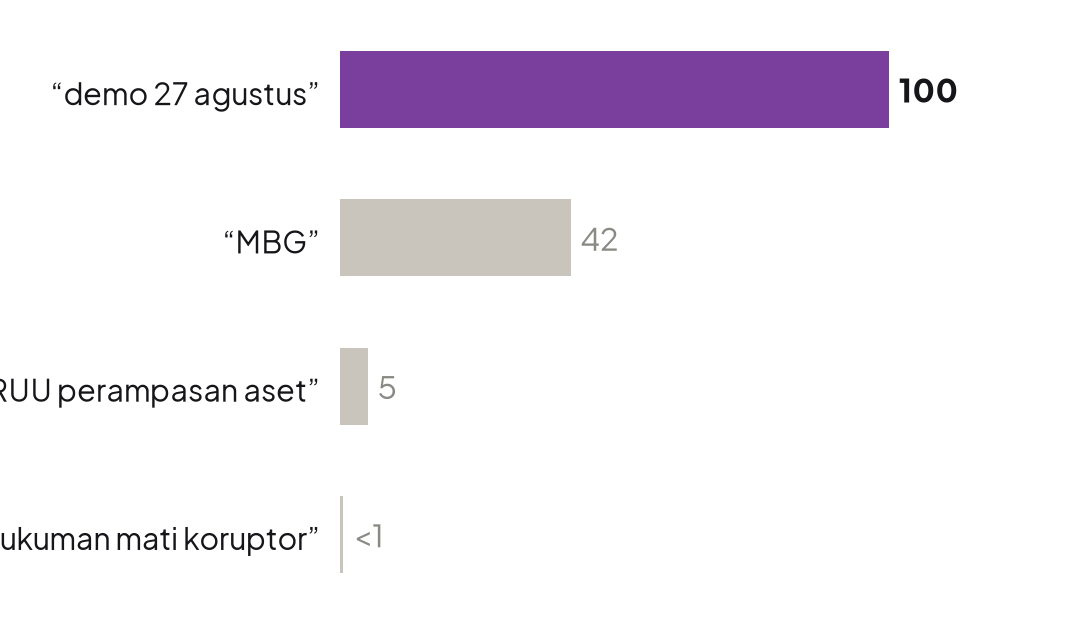
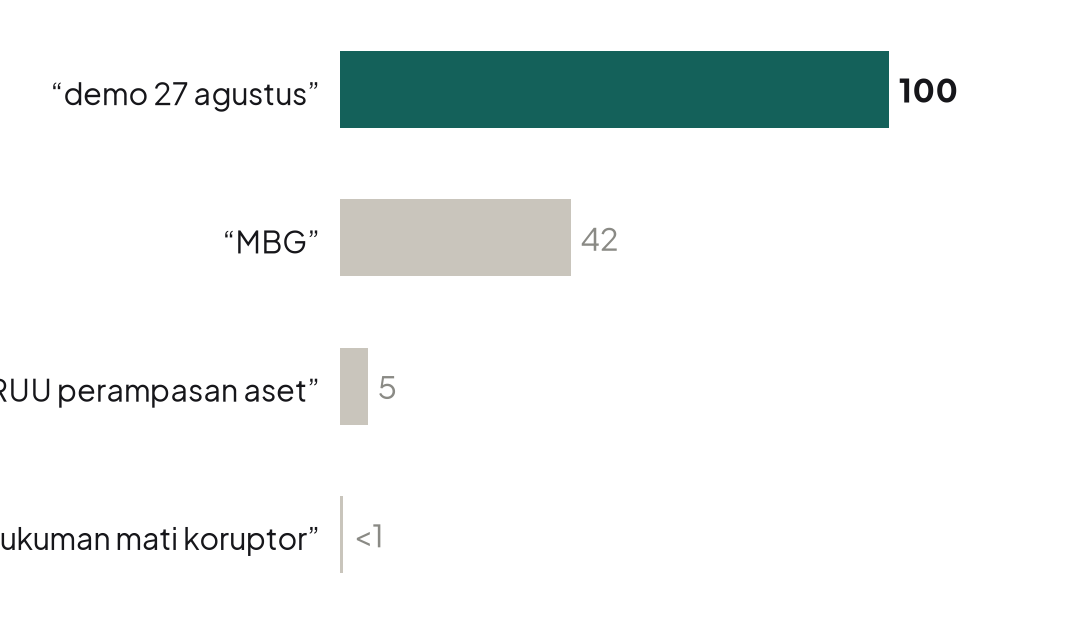
Ganti aksen ke teal tua, kurangi header, sederhanakan legenda peta
- warna aksen dan tangga warna peta beralih dari ungu ke teal tua
- label eyebrow di atas judul dihapus dari keenam slide dan dari slide.html
- provinsi tanpa nilai Trends ikut kelas terendah; baris legenda dan
  penyebutannya di konten dihilangkan

Claude-Session: https://claude.ai/code/session_01NnSprounbjmKrSxxChdRAY

Changed region(s): [[0.3056, 0.0609, 0.825, 0.2131]]

diff --git a/ceritadataa/konten/2026-08-26-sentimen-27-agustus/slide.html b/ceritadataa/konten/2026-08-26-sentimen-27-agustus/slide.html
@@ -46,9 +46,9 @@
   .label    { font-size: 16px; font-weight: 400; color: #8A8A85;
               text-transform: uppercase; letter-spacing: .05em; }
   .footnote { font-size: 13px; font-weight: 400; color: #8A8A85; line-height: 1.5; }
-  .big-stat { font-size: 160px; font-weight: 800; line-height: 1; color: #7A3E9D; }
+  .big-stat { font-size: 160px; font-weight: 800; line-height: 1; color: #14615A; }
 
-  .accent-text { color: #7A3E9D; }
+  .accent-text { color: #14615A; }
   .bold        { font-weight: 800; }
   .muted       { color: #8A8A85; }
 
@@ -63,10 +63,10 @@
 
   .list-container { display: flex; flex-direction: column; gap: 32px; margin-top: 48px; }
   .list-item {
-    border-left: 4px solid #7A3E9D; padding-left: 20px;
+    border-left: 4px solid #14615A; padding-left: 20px;
     display: flex; flex-direction: column; gap: 8px;
   }
-  .list-item .item-title { font-size: 20px; font-weight: 800; color: #7A3E9D; }
+  .list-item .item-title { font-size: 20px; font-weight: 800; color: #14615A; }
 
   .method-item { display: flex; flex-direction: column; gap: 6px; }
   .method-item .item-title { font-size: 20px; font-weight: 800; }
@@ -82,7 +82,6 @@
 <!-- SLIDE 1 -->
 <section id="slide-1">
   <div class="content-top">
-    <div class="label">ceritadataa · Kamis 27 Agustus</div>
     <h1 class="title">Aksinya baru besok.<br>Percakapannya sudah<br>lebih dulu berjalan.</h1>
   </div>
   <div class="content-middle center-block">
@@ -101,7 +100,6 @@
 <!-- SLIDE 2 -->
 <section id="slide-2">
   <div class="content-top">
-    <div class="label">Konteks</div>
     <h1 class="title">Yang turun besok tidak<br>membawa satu tuntutan</h1>
   </div>
   <div class="list-container">
@@ -131,7 +129,6 @@
 <!-- SLIDE 3 -->
 <section id="slide-3">
   <div class="content-top">
-    <div class="label">Kapan mulai ramai</div>
     <h1 class="title">Sepuluh hari lalu, hampir<br>tidak ada yang mencarinya</h1>
     <div class="subtitle muted" style="font-size: 20px;">Indeks pencarian “demo 27 agustus”
       di Indonesia — 100 = titik tertinggi</div>
@@ -152,7 +149,6 @@
 <!-- SLIDE 4 -->
 <section id="slide-4">
   <div class="content-top">
-    <div class="label">Empat kata kunci, satu bulan</div>
     <h1 class="title">Yang dicari peristiwanya,<br>bukan tuntutannya</h1>
     <div class="subtitle muted" style="font-size: 20px;">Indeks tertinggi tiap kata kunci
       sepanjang 26 Juli–26 Agustus 2026</div>
@@ -172,7 +168,6 @@
 <!-- SLIDE 5 -->
 <section id="slide-5">
   <div class="content-top">
-    <div class="label">Di mana orang mencarinya</div>
     <h1 class="title">Jakarta pusatnya — tapi<br>Yogyakarta ikut menyala</h1>
   </div>
   <div class="content-middle" style="margin-top: 40px;">
@@ -191,7 +186,6 @@
 <!-- SLIDE 6 -->
 <section id="slide-6">
   <div class="content-top">
-    <div class="label">Metode</div>
     <h1 class="title">Cara membacanya —<br>dan batasnya</h1>
   </div>
   <div class="content-middle center-block" style="gap: 32px;">

diff --git a/ceritadataa/konten/2026-08-26-sentimen-27-agustus/render_slide.py b/ceritadataa/konten/2026-08-26-sentimen-27-agustus/render_slide.py
@@ -26,8 +26,8 @@ GRAFIK.mkdir(exist_ok=True)
 
 # ---------------------------------------------------------------- gaya tetap
 LATAR, TINTA, ABU = "#F4F1EA", "#16161A", "#8A8A85"
-AKSEN, REDAM, GARIS = "#7A3E9D", "#C9C5BC", "#DED9CE"
-RAMPA = ["#EDE6F3", "#D6C0E3", "#B78FCC", "#8E56AF", "#5F3080"]
+AKSEN, REDAM, GARIS = "#14615A", "#C9C5BC", "#DED9CE"
+RAMPA = ["#E2EDEA", "#B9D6D0", "#86B8AF", "#4C8E85", "#1E5E56"]
 AMBANG = [5, 10, 20, 40]
 LABEL_BIN = ["di bawah 5", "5–9", "10–19", "20–39", "40 ke atas"]
 KOSONG = "#DDD8CE"
@@ -76,9 +76,6 @@ def kanvas():
 
 def kop(fig, judul: str, kicker: str | None = None, y: float = ATAS):
     """Judul temuan di kepala slide. Judul menyatakan temuan, bukan 'Grafik 1'."""
-    if kicker:
-        fig.text(KIRI, y + 0.028, " ".join(kicker.upper()), color=ABU,
-                 fontsize=11, weight=600)
     fig.text(KIRI, y, judul, color=TINTA, fontsize=27, weight=800,
              va="top", ha="left", linespacing=1.28)
 
@@ -126,7 +123,7 @@ def samakan(nama: str) -> str:
 
 def warna_bin(v):
     if v is None:
-        return KOSONG
+        return RAMPA[0]
     for i, batas in enumerate(AMBANG):
         if v < batas:
             return RAMPA[i]
@@ -136,7 +133,6 @@ def warna_bin(v):
 # -------------------------------------------------------------------- slide 1
 def slide1(seri):
     fig = kanvas()
-    fig.text(KIRI, 0.90, "CERITADATAA · KAMIS 27 AGUSTUS", color=ABU, fontsize=12, weight=600)
     fig.text(KIRI, 0.845, "Aksinya baru besok.\nPercakapannya sudah\nlebih dulu berjalan.",
              color=TINTA, fontsize=40, weight=800, va="top", linespacing=1.2)
     rasio = seri["demo 27 agustus"][-1] / seri["RUU perampasan aset"][-1]
@@ -289,11 +285,6 @@ def slide5(prov):
         fig.add_artist(Rectangle((lx + i * 0.152, ly), 0.036, 0.017,
                                      transform=fig.transFigure, facecolor=c, edgecolor="none"))
         fig.text(lx + i * 0.152, ly - 0.016, l, color=ABU, fontsize=12.5, va="top")
-    fig.add_artist(Rectangle((lx, ly - 0.055), 0.036, 0.017, transform=fig.transFigure,
-                                 facecolor=KOSONG, edgecolor="none"))
-    fig.text(lx + 0.046, ly - 0.048, "data tidak tersedia (Gorontalo, Sulawesi Barat)",
-             color=ABU, fontsize=12.5, va="top")
-
     fig.text(KIRI, 0.268,
              "Indeks provinsi mengukur porsi pencarian di wilayah itu, jadi\n"
              "jumlah penduduk sudah ikut diperhitungkan. Yogyakarta (18)\n"

diff --git a/ceritadataa/brief/prompt-gemini.md b/ceritadataa/brief/prompt-gemini.md
@@ -36,7 +36,7 @@ SISTEM — SALIN PERSIS, JANGAN DIUBAH SATU NILAI PUN
   Warna     latar    #F4F1EA
             tinta    #16161A
             abu      #8A8A85   (hanya untuk catatan kaki dan label sekunder)
-            aksen    [#7A3E9D]  (hanya SATU aksen; tidak ada warna kedua)
+            aksen    [#14615A]  (hanya SATU aksen; tidak ada warna kedua)
             garis    #DED9CE
 
   Huruf     satu keluarga saja: Plus Jakarta Sans
